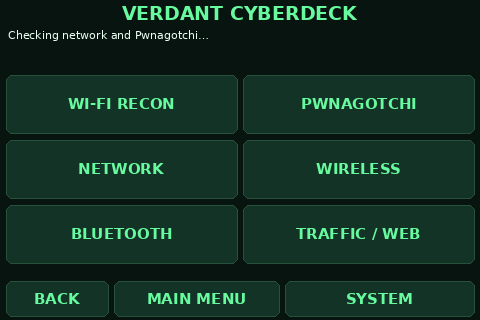
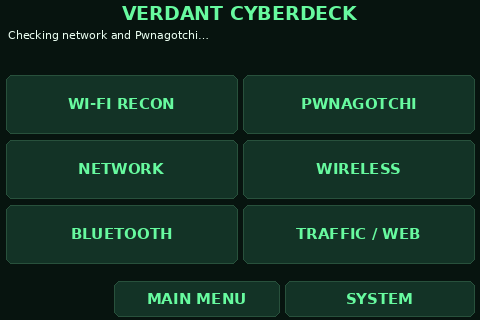
Recognize installed capture log prefix and omit Back on the main menu
Accept the thread-prefix separator colon in genuine Pwnagotchi capture records. The prior parser rejected actual records and never published a popup. Keep strict marker matching, cursor deduplication and future-only monitoring; log a short publication ID for diagnosis. Remove Back on Main Menu and retain it on subpages.

Validation: 60 portable tests passed, one expected skip. All 10 historical host capture records checked are recognized without replaying or publishing them. Desktop client lock confirms an existing client. Root apply and physical popup observation remain pending.

Changed region(s): [[0.0, 0.875, 0.25, 1.0]]

diff --git a/cyberdeck/alerts.py b/cyberdeck/alerts.py
@@ -23,7 +23,7 @@ CARD = (20, 73, 460, 257)
 BOLD = '/usr/share/fonts/truetype/dejavu/DejaVuSans-Bold.ttf'
 REGULAR = '/usr/share/fonts/truetype/dejavu/DejaVuSans.ttf'
 ANSI = re.compile(r'\x1b\[[0-?]*[ -/]*[@-~]')
-CAPTURE = re.compile(r'^(?:\[[^\]\r\n]{1,100}\]\s*)*(!!! captured new handshake(?: on channel|:).+?!!!)\s*$',re.I)
+CAPTURE = re.compile(r'^(?:\[[^\]\r\n]{1,100}\]\s*)*(?::\s*)?(!!! captured new handshake(?: on channel|:).+?!!!)\s*$',re.I)
 
 def clean(text, limit=260):
     return ''.join(c for c in ANSI.sub('',str(text)) if c.isprintable())[:limit]
@@ -110,7 +110,9 @@ class JournalMonitor:
     def accept(self,record):
         event=capture_event(record)
         if not event or event['id'] in self.ids:return False
-        self.store.publish(event);self.ids.append(event['id']);return True
+        self.store.publish(event);self.ids.append(event['id'])
+        logging.info('Published Pwnagotchi capture notification %s',event['id'][:12])
+        return True
     def stop(self,*_):
         self.running=False
         if self.process and self.process.poll() is None:self.process.terminate()
@@ -174,7 +176,9 @@ def main():
     action.add_argument('--monitor',action='store_true');action.add_argument('--desktop',action='store_true');action.add_argument('--test-alert',action='store_true')
     args=parser.parse_args()
     if args.desktop:desktop_notifications()
-    elif args.monitor:JournalMonitor().run()
+    elif args.monitor:
+        logging.basicConfig(level=logging.INFO,format='%(asctime)s %(levelname)s %(message)s')
+        JournalMonitor().run()
     else:
         if os.geteuid()!=0:parser.error('Synthetic alert publishing requires host sudo')
         EventStore().publish({'version':1,'kind':'test','id':'test-'+str(time.time_ns()),'timestamp':time.time(),'detail':'Synthetic display test. No handshake was captured.'})

diff --git a/tests/test_alerts.py b/tests/test_alerts.py
@@ -21,6 +21,14 @@ class CaptureAlertTests(unittest.TestCase):
             self.assertIsNone(capture_event({'MESSAGE':message,'__CURSOR':'x'}))
         self.assertIsNone(capture_event({'MESSAGE':EVENT['MESSAGE']}))
         self.assertIsNone(capture_event([]))
+    def test_installed_logger_thread_prefix_and_colon_are_accepted(self):
+        message='[2026-11-15 19:41:50,979] [WARNING] [Event Polling] : !!! captured new handshake: synthetic-test-event !!!'
+        event=capture_event({'MESSAGE':message,'__CURSOR':'synthetic-thread-prefix'})
+        self.assertIsNotNone(event)
+        self.assertEqual(event['kind'],'handshake')
+        self.assertEqual(event['detail'],'captured new handshake: synthetic-test-event')
+        for bad in ('unrelated : '+message,message+' unexpected trailing text'):
+            self.assertIsNone(capture_event({'MESSAGE':bad,'__CURSOR':'synthetic-bad'}))
     def test_cursor_deduplication_and_new_events(self):
         class Store:
             events=[]

diff --git a/tests/test_ui_controls.py b/tests/test_ui_controls.py
@@ -23,6 +23,9 @@ class UIControlTests(unittest.TestCase):
             with patch('cyberdeck.pwnagotchi.running',return_value=True):page()
             labels=[b.label for b in self.app.buttons]
             self.assertIn('MAIN MENU',labels);self.assertNotIn('EXIT',labels);self.assertNotIn('HOME',labels)
+    def test_main_menu_has_no_back_button_but_subpages_do(self):
+        self.app.home();self.assertNotIn('BACK',[b.label for b in self.app.buttons])
+        self.app.wifi();self.assertIn('BACK',[b.label for b in self.app.buttons])
     def test_both_settings_entries_require_authentication(self):
         self.app.home();next(b for b in self.app.buttons if b.label=='SYSTEM').action()
         self.assertEqual(self.app.title,'UNLOCK SETTINGS')

diff --git a/cyberdeck/dashboard.py b/cyberdeck/dashboard.py
@@ -81,6 +81,7 @@ class Dashboard:
             ('WI-FI RECON',self.wifi),('PWNAGOTCHI',self.pwn),
             ('NETWORK',lambda:self.tools('NETWORK')),('WIRELESS',lambda:self.tools('WIRELESS')),
             ('BLUETOOTH',self.bt),('TRAFFIC / WEB',lambda:self.tools('TRAFFIC / WEB'))])
+        self.buttons=[button for button in self.buttons if button.label!='BACK']
         self.buttons.append(Button('SYSTEM',(285,281,474,316),lambda:self.protect(self.system)))
 
     def text(self, title, content, controls=()):

diff --git a/docs/BACKGROUND-ALERTS.md b/docs/BACKGROUND-ALERTS.md
@@ -18,7 +18,7 @@ The native supervisor excludes background Pwnagotchi from screen ownership and n
 
 A new, separate `verdant-handshake-monitor.service` follows **future** journal records from `pwnagotchi.service`. It starts no radios and has no dependency that starts Pwnagotchi. It is enabled at boot so event monitoring survives closing the dashboard.
 
-The parser recognizes the installed agent's `!!! captured new handshake ... !!!` log messages, including the normal timestamp/severity prefix. Journal cursors deduplicate repeated records. Existing files, old handshake counts and unrelated log text do not trigger notifications. This reports a capture event from Pwnagotchi; it does not independently verify a complete/crackable exchange.
+The parser recognizes the installed agent's `!!! captured new handshake ... !!!` log messages, including the installed timestamp/severity/thread prefix and its separating colon. The monitor logs a short event identifier after successful publication, without capture details. Journal cursors deduplicate repeated records. Existing files, old handshake counts and unrelated log text do not trigger notifications. This reports a capture event from Pwnagotchi; it does not independently verify a complete/crackable exchange.
 
 The latest event is stored atomically in `/run/verdant-cyberdeck/handshake.json`, root-owned, group `kali`, mode 0640, with a 0750 parent directory. It contains only event metadata, not capture contents or keys. Popups expire after eight seconds. The last metadata file remains in volatile `/run` until another event or reboot.
 
@@ -57,3 +57,7 @@ Use it while the dashboard, native terminal or a desktop window is foreground. A
 Use `integrate_tft.py --restore` with the exact manifest reported by this apply. Rollback restores the backed-up Pwnagotchi unit, removes the owned headless override where newly created, restores the native renderer/runtime files, reloads systemd, and restores monitor enablement behavior. It refuses to overwrite later file edits. User launchers/autostart entries remain separately owned by the user installer/uninstaller.
 
 No Pwnagotchi reinstall, source overwrite, plugin disablement, capture deletion, learned-data migration, network-interface definition, SSH setting, driver, SPI overlay, boot-firmware file, or framebuffer mode change is part of this update. Existing plugin/hardware errors are not silently repaired by display integration.
+
+## Installed logger compatibility correction
+
+The Pi’s actual capture records use `[timestamp] [WARNING] [Event Polling] : !!! captured new handshake: ... !!!`. The earlier parser omitted the separator colon, so it rejected valid records and never wrote shared notification state. This revision accepts that exact prefix while preserving anchored marker validation and journal-cursor deduplication. Ten actual recent records were accepted in a read-only check; none were replayed or published. Root apply is required to replace the monitor’s loaded code. Physical popup observation remains pending after apply. The existing desktop client already requests topmost stacking over ordinary windows.

diff --git a/TEST-RESULTS.md b/TEST-RESULTS.md
@@ -76,3 +76,7 @@ The known remaining gap is host-side physical display/input validation and an ex
 Clean-export run: **59 tests, 58 passed and one expected host-only preservation-manifest skip**. Syntax compilation, shell syntax, offscreen rendering, isolated runtime canvas-bridge publication, pointer coalescing, direct service actions, OPEN/START navigation, and mocked PAM authentication/account handling passed. See [TFT controls evidence](docs/evidence/tft-controls-tests.json).
 
 The existing host-only original preservation test still reports a previously observed config checksum change; its original manifest was not rewritten. No main configuration change was made by this revision. Root host apply, physical live-screen/pointer observation, and authentication with the owner’s actual password remain pending. No real handshake was created for tests.
+
+## Popup parser and main-menu Back correction
+
+Clean-export suite: **61 tests, 60 passed, one expected host-only skip**. The corrected parser accepted all ten actual capture log records examined from the Pi; the check published no old events. The existing desktop client holds its singleton lock. The previous parser rejected these genuine records because it omitted the installed logger’s thread-prefix separator colon. Regression coverage retains strict full-message matching and rejects unrelated prefixes/trailing content. Main Menu omits Back; subpages retain it. Root apply and physical popup observation remain pending. See [evidence](docs/evidence/popup-parser-fix.json).

diff --git a/docs/TFT-CONTROLS.md b/docs/TFT-CONTROLS.md
@@ -1,6 +1,6 @@
 # TFT controls and live Pwnagotchi screen
 
-The welcome screen stays visible until **Enter Main Menu** is pressed (touch, mouse, or Enter key). It now reads **Network Security Dashboard**. This supersedes the earlier four-second automatic transition. F3 previews the welcome screen again. Footer navigation uses **Main Menu** and has no Exit button. F1 returns from a native tool without stopping background Pwnagotchi.
+The welcome screen stays visible until **Enter Main Menu** is pressed (touch, mouse, or Enter key). It now reads **Network Security Dashboard**. This supersedes the earlier four-second automatic transition. F3 previews the welcome screen again. Footer navigation uses **Main Menu** and has no Exit button. Back appears on subpages and is omitted from the main menu. F1 returns from a native tool without stopping background Pwnagotchi.
 
 ## Pwnagotchi
 

diff --git a/CHANGELOG.md b/CHANGELOG.md
@@ -68,3 +68,9 @@
 - Reduced mouse gain and coalesced pointer rendering replace per-event redraw/file writes.
 - Persistent Network Security Dashboard welcome screen, Enter Main Menu, and Main Menu footer without Exit.
 - Existing PAM login password protects app System/configuration pages; masked touch/physical keyboard input with no stored credentials.
+
+## Capture alert compatibility correction — 2026-11-15
+
+- Accept the installed logger’s thread prefix and separator colon, which previously prevented genuine capture notifications from being published.
+- Log a short publication ID for diagnosis without including capture details.
+- Remove Back from the main menu while retaining it on subpages.
